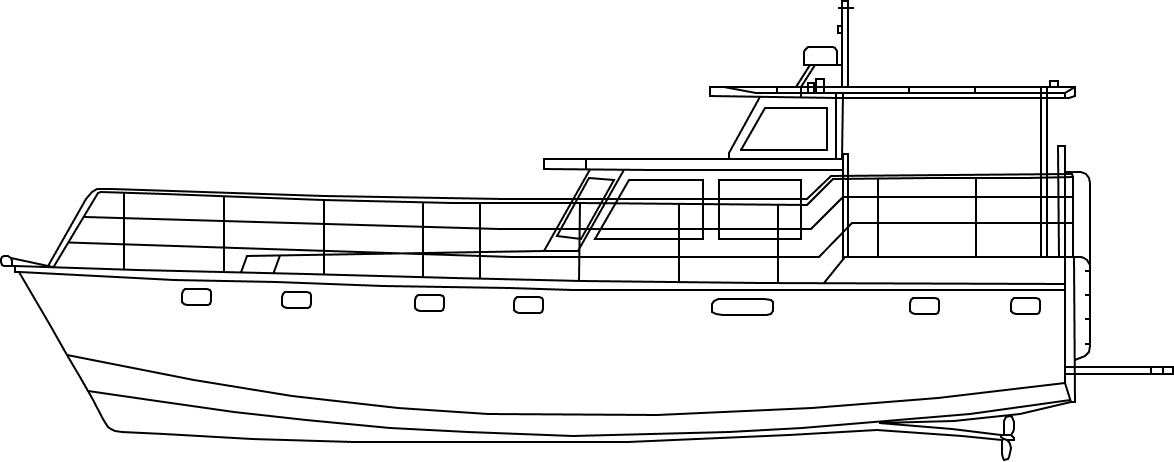
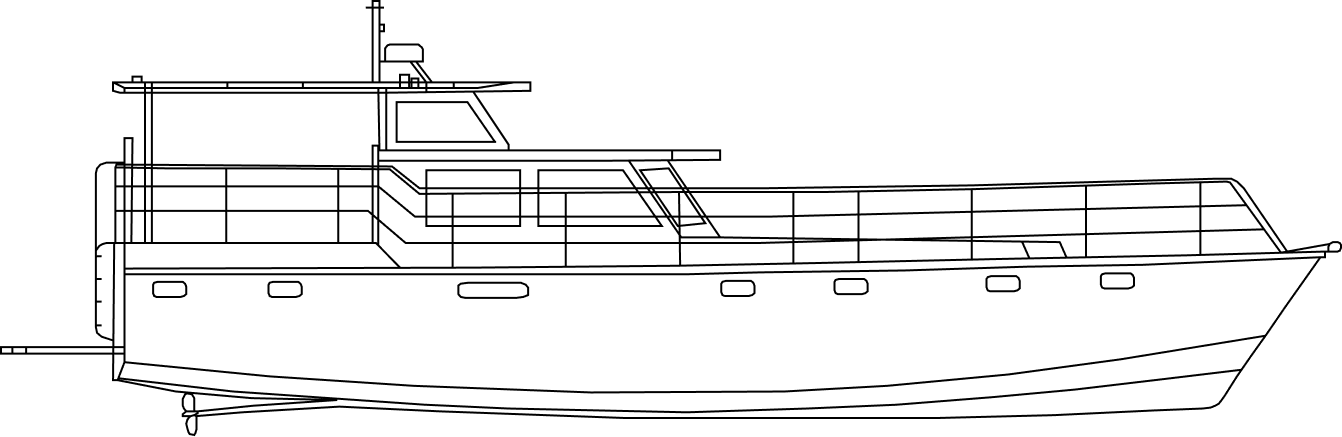
Гулянка №5: new side-view floor plan

Changed region(s): [[0.0, 0.0, 1.0, 1.0], [0.9506, 0.6842, 0.9813, 0.714]]

diff --git a/js/boats-data.js b/js/boats-data.js
@@ -797,7 +797,7 @@ const BOATS = [
   // Гулянки
   { id: "gulyanka-1",family: "gulyanki", name: "Гулянка №5", status: "sold", year: "2017", img: "gulyanka5.jpg", cardImg: "gulyanka5-card.jpg", tags: ["На заказ"], noInteriors: true,
     photos: { hero2: "gulyanka5-2.jpg?v=2", overview: "gulyanka5-overview.jpg", construction: "gulyanka5-story.jpg",
-      plans: ["gulyanka5-plan-side.png"] },
+      plans: ["gulyanka5-plan-side.png?v=2"] },
     content: {
       eyebrow: "Моторная лодка",
       desc: "Волжская лодка с флайбриджем",

diff --git a/boat.html b/boat.html
@@ -271,7 +271,7 @@
     </div>
   </footer>
 
-  <script src="js/boats-data.js?v=609"></script>
+  <script src="js/boats-data.js?v=610"></script>
   <script src="js/boat.js?v=78"></script>
   <script src="js/contact-modal.js?v=2"></script>
   <script src="js/booklet-modal.js?v=3"></script>
